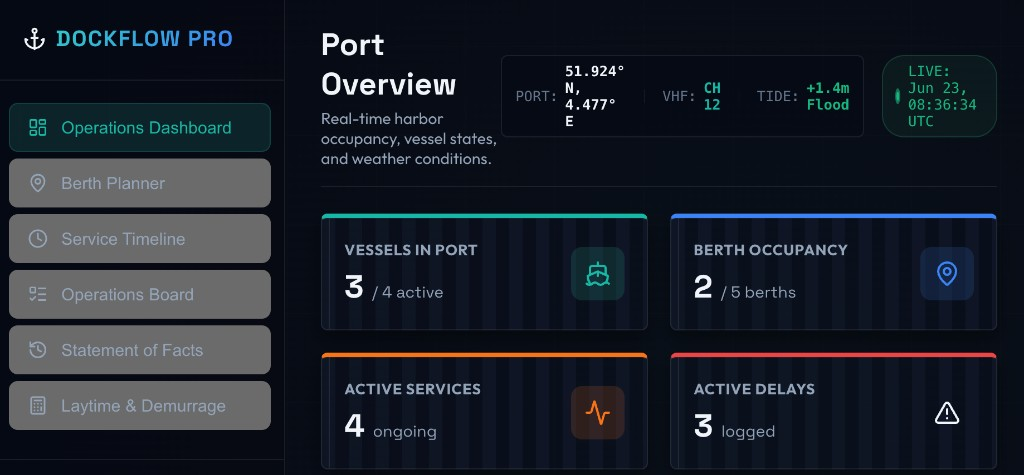
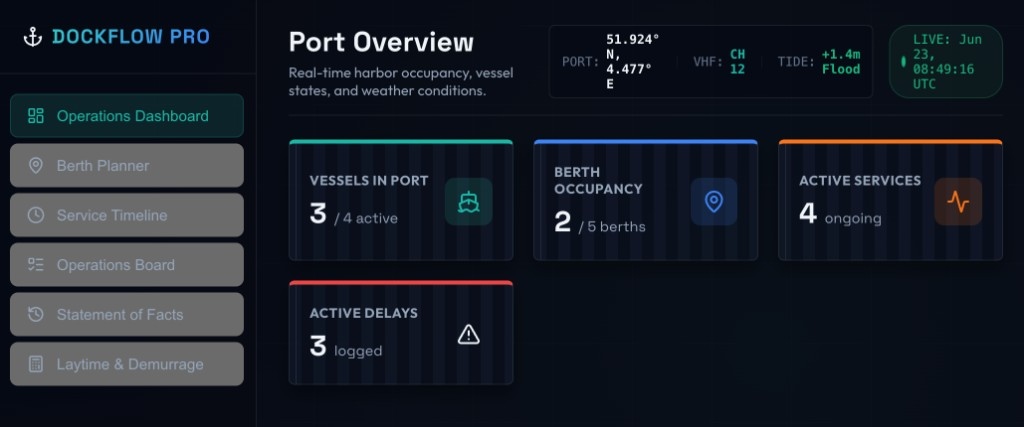
Document GITHUB_TOKEN setup and simplify project previews.
Add .env.example for private contribution counts, show website screenshots without browser chrome, and refresh project images.

diff --git a/src/components/Projects.tsx b/src/components/Projects.tsx
@@ -47,7 +47,7 @@ function ProjectCard({ project }: { project: Project }) {
     <motion.div data-reveal className="group flex flex-col">
       <div
         ref={frameRef}
-        className="relative overflow-hidden rounded-2xl border border-[var(--border-soft)] bg-[#0d0d10] shadow-xl shadow-black/20 transition-all duration-500 group-hover:border-[var(--border-hover)]"
+        className="relative overflow-hidden rounded-2xl border border-[var(--border-soft)] shadow-xl shadow-black/20 transition-all duration-500 group-hover:border-[var(--border-hover)]"
         onMouseMove={(e) => {
           if (!frameRef.current) return;
           const rect = frameRef.current.getBoundingClientRect();
@@ -59,7 +59,7 @@ function ProjectCard({ project }: { project: Project }) {
           if (frameRef.current) frameRef.current.style.transform = "";
         }}
       >
-        <BrowserPreview project={project} />
+        <ProjectPreview project={project} />
       </div>
 
       <div className="mt-5 flex items-start justify-between gap-3">
@@ -109,44 +109,37 @@ function ProjectCard({ project }: { project: Project }) {
   );
 }
 
-function BrowserPreview({ project }: { project: Project }) {
-  return (
-    <div className="relative">
-      <div className="flex items-center gap-2 border-b border-white/8 bg-[#141417] px-4 py-2.5">
-        <span className="h-2.5 w-2.5 rounded-full bg-[#ff5f57]" />
-        <span className="h-2.5 w-2.5 rounded-full bg-[#febc2e]" />
-        <span className="h-2.5 w-2.5 rounded-full bg-[#28c840]" />
-        <span className="mx-auto hidden w-1/2 truncate rounded-md bg-white/5 px-3 py-1 text-center text-[0.6rem] text-zinc-500 sm:block">
-          {project.live ? project.href.replace("https://", "") : `${project.id} · preview`}
-        </span>
-      </div>
-
-      {project.image ? (
-        // eslint-disable-next-line @next/next/no-img-element
+function ProjectPreview({ project }: { project: Project }) {
+  if (project.image) {
+    return (
+      <div className="aspect-[16/10] w-full overflow-hidden">
+        {/* eslint-disable-next-line @next/next/no-img-element */}
         <img
           src={project.image}
           alt={project.title}
-          className="aspect-[16/10] w-full object-cover object-top"
+          className="h-full w-full object-cover object-top"
         />
-      ) : (
-        <div
-          className={`relative flex aspect-[16/10] flex-col items-center justify-center overflow-hidden bg-gradient-to-br ${project.preview.bg} px-6 text-center`}
-        >
-          <div
-            className="pointer-events-none absolute -top-1/3 left-1/2 h-2/3 w-2/3 -translate-x-1/2 rounded-full blur-3xl"
-            style={{ background: project.preview.glow, opacity: 0.35 }}
-          />
-          <h4 className="relative z-10 text-xl font-bold leading-tight tracking-tight text-white md:text-2xl">
-            {project.preview.headline}
-          </h4>
-          <p className="relative z-10 mt-2 text-xs text-zinc-300/80 md:text-sm">
-            {project.preview.sub}
-          </p>
-          <span className="relative z-10 mt-4 rounded-full bg-white/90 px-4 py-1.5 text-[0.65rem] font-semibold text-zinc-950">
-            Explore
-          </span>
-        </div>
-      )}
+      </div>
+    );
+  }
+
+  return (
+    <div
+      className={`relative flex aspect-[16/10] flex-col items-center justify-center overflow-hidden bg-gradient-to-br ${project.preview.bg} px-6 text-center`}
+    >
+      <div
+        className="pointer-events-none absolute -top-1/3 left-1/2 h-2/3 w-2/3 -translate-x-1/2 rounded-full blur-3xl"
+        style={{ background: project.preview.glow, opacity: 0.35 }}
+      />
+      <h4 className="relative z-10 text-xl font-bold leading-tight tracking-tight text-white md:text-2xl">
+        {project.preview.headline}
+      </h4>
+      <p className="relative z-10 mt-2 text-xs text-zinc-300/80 md:text-sm">
+        {project.preview.sub}
+      </p>
+      <span className="relative z-10 mt-4 rounded-full bg-white/90 px-4 py-1.5 text-[0.65rem] font-semibold text-zinc-950">
+        Explore
+      </span>
     </div>
   );
 }